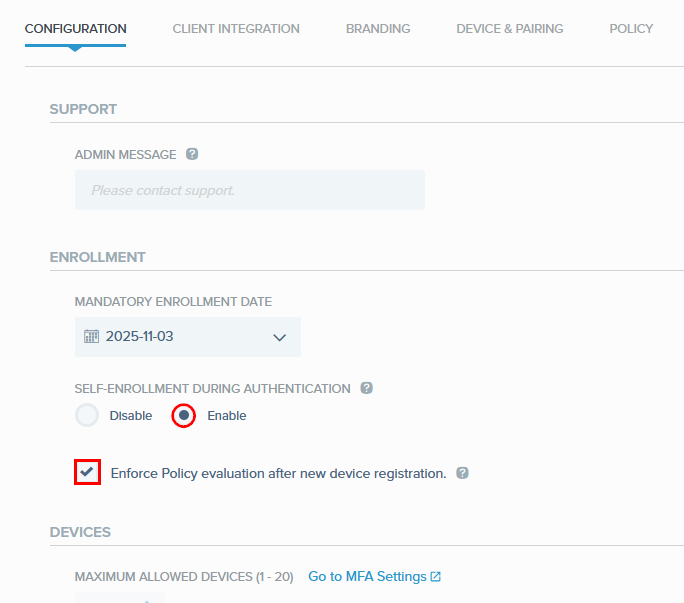
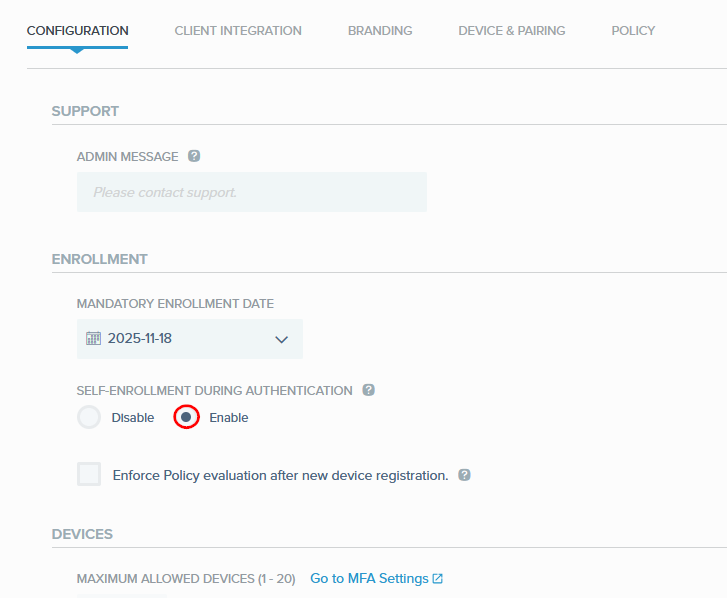
Update blog

diff --git a/_posts/2025-11-07-Configuring-SAML-SSO-with-HPE-GreenLake-and-Passwordless-Authentication-for-HPECOMCmdlets.md b/_posts/2025-11-07-Configuring-SAML-SSO-with-HPE-GreenLake-and-Passwordless-Authentication-for-HPECOMCmdlets.md
@@ -1639,6 +1639,30 @@ This completes the passwordless authentication configuration for Okta. Users in 
   
 #### 3. Test SSO Authentication with Browser
 
+> ⚠ **CRITICAL: First-Time User Enrollment Requirement**
+>
+> {: .small-space}
+>
+> Because the HPE GreenLake application uses a **passwordless authentication policy** (disallowing password authentication method), users **MUST** complete their initial Okta Verify device enrollment through the **Okta End-User Dashboard** - NOT by attempting to log in directly to HPE GreenLake.
+>
+> {: .small-space}
+>
+> **Why this matters:**
+> - The passwordless policy (`HPE GreenLake - Passwordless MFA`) **never prompts for a password** during authentication
+> - Without a password authentication step, Okta cannot trigger the self-enrollment flow
+> - If a user without a registered device tries to access HPE GreenLake directly, they will encounter authentication errors or be unable to complete enrollment
+> - This creates a chicken-and-egg problem: the user needs a device to authenticate, but cannot enroll a device without authenticating
+>
+> {: .small-space}
+>
+> **Correct enrollment workflow:**
+> 1. **First-time users**: Log in to Okta Dashboard (using standard Okta authentication) → Click HPE GreenLake app tile → Complete device enrollment with QR code
+> 2. **Subsequent logins**: Users can access HPE GreenLake directly via SP-Initiated SSO using passwordless authentication
+>
+> {: .small-space}
+>
+> **Important**: If you need users to enroll when accessing HPE GreenLake directly (SP-Initiated), you must modify the authentication policy to allow password authentication as a fallback method, which contradicts the pure passwordless design. For pure passwordless deployments, initial enrollment via the Okta Dashboard is required.
+
 To verify that your passwordless authentication configuration is working correctly, test the complete authentication flow using a web browser:
 
 1. Open a web browser and navigate to your Okta End-User Dashboard at your organization's Okta URL (typically `https://<your-domain>.okta.com/app/UserHome`)
@@ -2147,9 +2171,19 @@ The following sections demonstrate how to configure PingID with push notificatio
        
            > **Note**: This setting allows users to pair their mobile device with PingID during their first login attempt, eliminating the need for a separate enrollment process. This streamlines the initial setup experience while maintaining security.
 
-       - Verify the **Enforce Policy evaluation after new device registration** checkbox is selected
+       - Verify the **Enforce Policy evaluation after new device registration** checkbox is **UNCHECKED**
        
-           > **Important**: This option ensures that authentication policies are immediately enforced after device pairing, preventing users from bypassing security requirements during the initial enrollment process.
+           > **Important**: This option must be **disabled** to allow new users to complete device enrollment successfully. When enabled, PingID immediately re-evaluates all authentication policy requirements after a device is registered. This can cause enrollment failures because:
+           >
+           > {: .small-space}
+           >
+           > - The newly registered device may not yet be fully activated in the system
+           > - Additional policy requirements (like device trust level) might not be immediately satisfied
+           > - This creates a timing issue where the device exists but isn't yet "usable" according to policy evaluation
+           >
+           > {: .small-space}
+           >
+           > By leaving this option **unchecked**, the enrollment process completes fully before policy enforcement occurs, ensuring a smooth first-time user experience. After initial deployment and all users have enrolled their devices, you may optionally enable this setting if you require immediate policy validation after device registration.
 
             [![]( {{ site.baseurl }}/assets/images/SAML-SSO/SAML-SSO-96.png)]( {{ site.baseurl }}/assets/images/SAML-SSO/SAML-SSO-96.png){:class="img-700"}{: data-lightbox="gallery"}
 
@@ -2234,7 +2268,31 @@ This completes the passwordless authentication configuration for Ping Identity. 
 
 #### 3. Test SSO Authentication with Browser
 
-Since the passwordless authentication policy configured in this guide (`HPEGreenLake_PingID_Passwordless`) is assigned specifically to the HPE GreenLake application and not to the PingOne portal itself, we'll test the passwordless flow by directly launching the HPE GreenLake application from the portal rather than testing the portal login process.
+> ⚠ **CRITICAL: First-Time User Enrollment Requirement**
+>
+> {: .small-space}
+>
+> Because the HPE GreenLake application uses a **passwordless authentication policy** (PingID Authentication only, no password step), users **MUST** complete their initial PingID device enrollment through the **PingOne application portal** - NOT by attempting to log in directly to HPE GreenLake.
+>
+> {: .small-space}
+>
+> **Why this matters:**
+> - The passwordless policy (`HPEGreenLake_PingID_Passwordless`) **never prompts for a password** during authentication
+> - Without a password authentication step, PingID cannot trigger the self-enrollment flow
+> - If a user without a registered device tries to access HPE GreenLake directly, they will encounter the error: **"Blocked - User has no usable devices"**
+> - This creates a chicken-and-egg problem: the user needs a device to authenticate, but cannot enroll a device without authenticating
+>
+> {: .small-space}
+>
+> **Correct enrollment workflow:**
+> 1. **First-time users**: Log in to PingOne portal → Click HPE GreenLake app tile → Complete device enrollment with QR code
+> 2. **Subsequent logins**: Users can access HPE GreenLake directly via SP-Initiated SSO using passwordless authentication
+>
+> {: .small-space}
+>
+> **Important**: If you need users to enroll when accessing HPE GreenLake directly (SP-Initiated), you must modify the authentication policy to include a password authentication step BEFORE the PingID step, which contradicts the passwordless design. For pure passwordless deployments, initial enrollment via the PingOne portal is required.
+
+To verify that your passwordless authentication configuration is working correctly, test the complete authentication flow using a web browser:
 
 **Authentication Flow**: User **→** PingOne Portal (standard login) **→** HPE GreenLake Application **→** PingID Passwordless Authentication → HPE GreenLake Console
 
